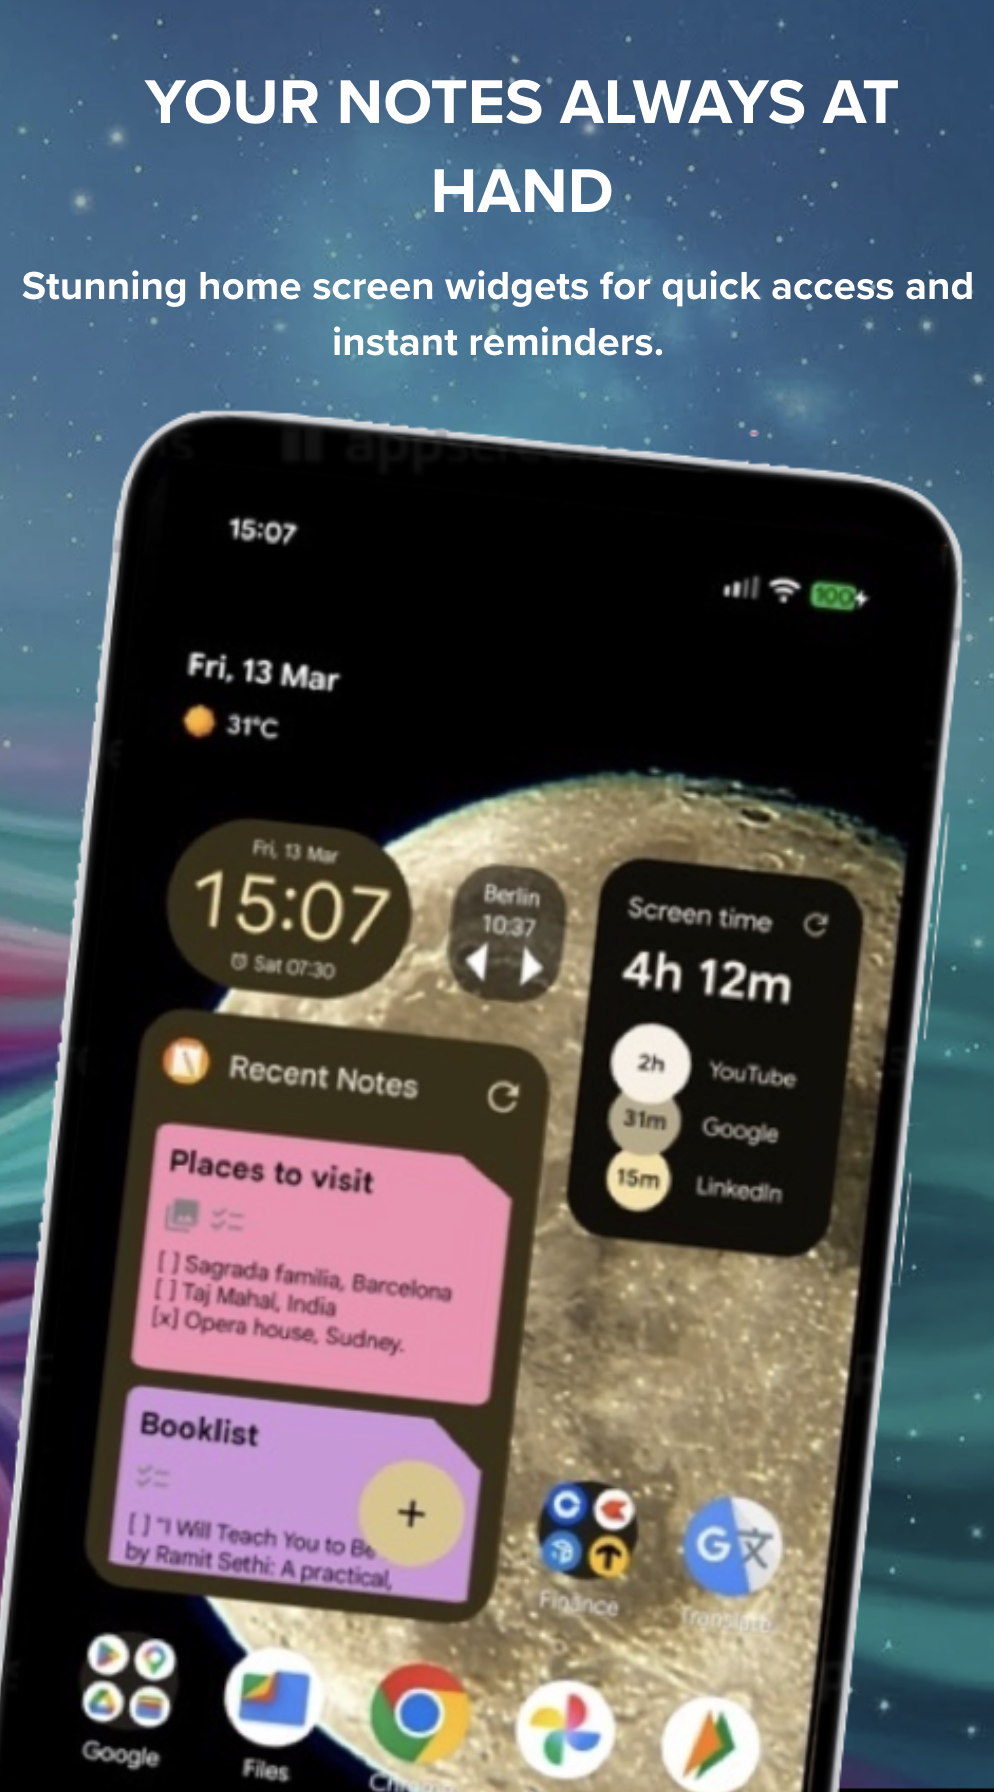
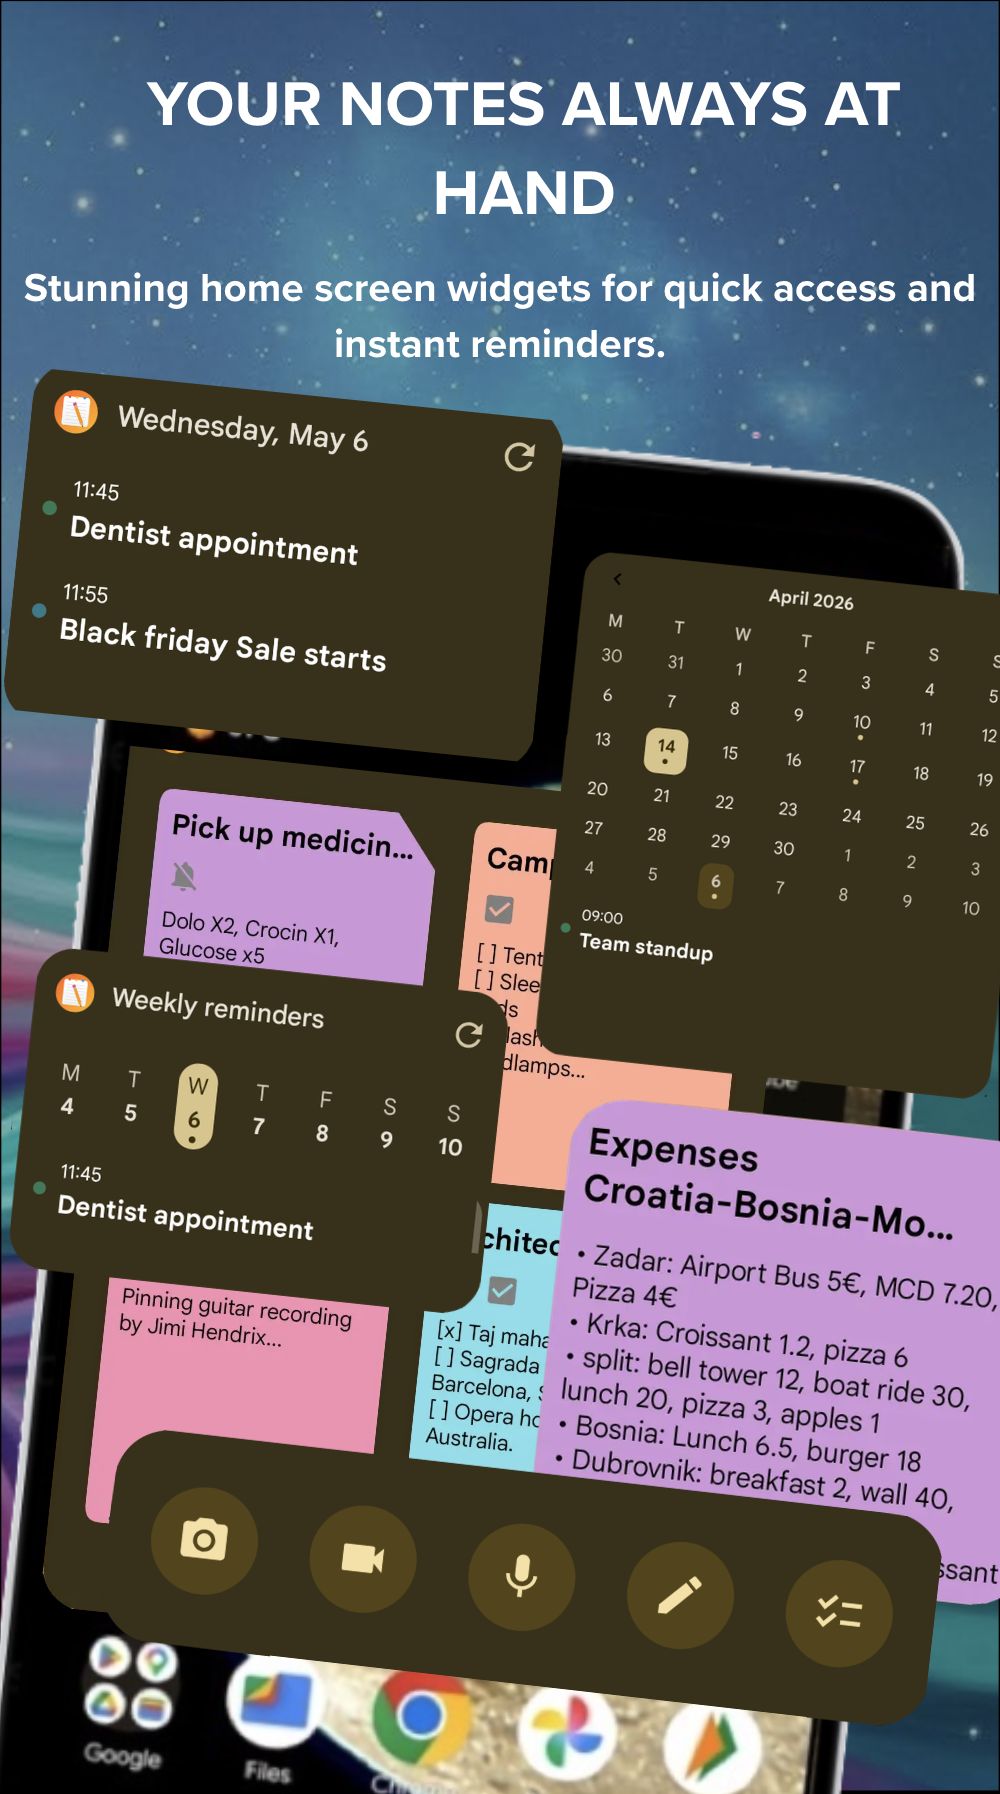
#Widget, updating playstore image, readme

diff --git a/readme.md b/readme.md
@@ -98,6 +98,10 @@ Local models are downloaded from Hugging Face and run entirely on-device for pri
 ### Widgets
 - **Single Note Widget** - Pin any note to home screen with Glance 1.1.1
 - **Notes List Widget** - Recent notes overview on home screen
+- **Quick Action Widget** – Launch directly into a new note using the camera, video, audio recorder, text, or checklist with one tap from your home screen.
+- **Daily Schedule Widget** – Keep track of your day with a focused view of today's reminders and upcoming appointments.
+- **Weekly Planner Widget** – Stay ahead of your week with a horizontal calendar view and a list of your most important upcoming tasks.
+- **Monthly Calendar Widget** – Manage long-term goals with a full monthly overview that highlights days with scheduled reminders and events.
 
 ### Reminders & Calendar
 - Per-note reminders with exact alarm scheduling